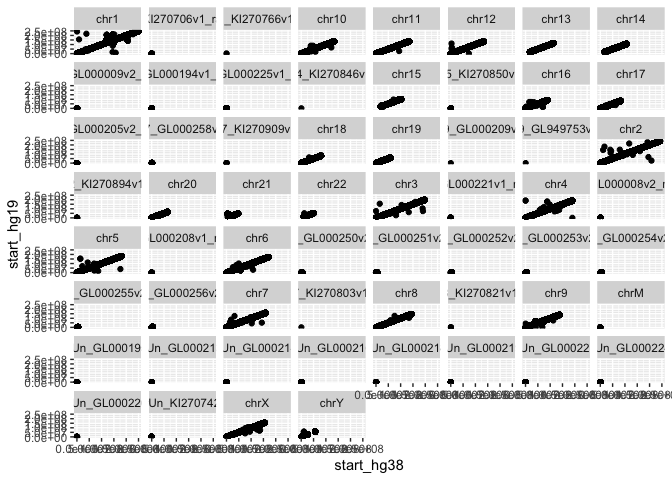
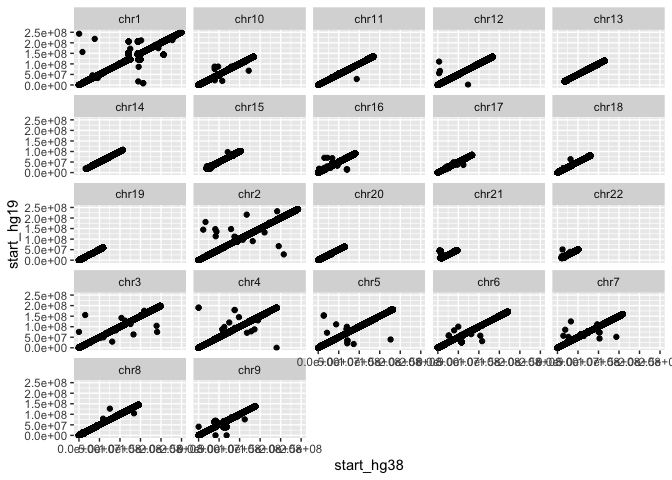
final commit

diff --git a/Assignment_4.md b/Assignment_4.md
@@ -323,9 +323,14 @@ counterpart.
 #?# Type the command you used below: - 3 pt
 
 #first need to get dataframe of reads where reads map to same chr between the two reference genomes
-data.df.matched <- data.df[data.df$chr_hg38 == data.df$chr_hg19,]
+canonical_chromosomes <- paste0("chr", 1:22)
 
-ggplot(data = data.df.matched, mapping = aes(x = start_hg38, y=start_hg19, group = chr_hg38)) + geom_point() + facet_wrap(~ chr_hg38)
+data.df.matched <- data.df[data.df$chr_hg38 == data.df$chr_hg19,]
+data.df.matched<- data.df.matched[data.df.matched$chr_hg38 %in% canonical_chromosomes, ]
+
+
+ggplot(data = data.df.matched, mapping = aes(x = start_hg38, y=start_hg19, group = chr_hg38)) + 
+  geom_point() + facet_wrap(~ chr_hg38)
 ```
 
 ![](Assignment_4_files/figure-gfm/unnamed-chunk-8-1.png)<!-- -->
@@ -393,7 +398,7 @@ compare.df.ori.redo<- reads.per.chr(data2.df, c(2,6), "hg38_org","hg38_redo")
 #?# How many reads were mapped to two different chromosomes? What percent of reads is this? Type the code and the answers for each below. 2 pt
 total_reads = nrow(data2.df) #get total number of reads
 chr_mismatch_reads = nrow(data2.df[data2.df$chr_ori != data2.df$chr_redo,])#get number of reads mapping to different chromosomes
-#there are 29413 mismatched reads between chr_hg38 and chr_hg19
+#there are 0 mismatched reads.
 mismatch_percentage = (chr_mismatch_reads/total_reads)*100
 #0% of all reads are mismatched between the original and the redo for hg_38
 
@@ -470,21 +475,55 @@ join -j4 -o 1.4,1.1,1.2,1.3,1.6,2.1,2.2,2.3,2.6 SRR12506919_subset_aligned_hg38_
 ``` r
 #?# Load your merged bed file onto R using the *read.csv* function and save it into a data.frame
 #?# Type the command you used below  - 1 pt
-
+data3.df <- read.csv("join_hg38_org_noDet.bed", sep = "")
 
 ## Change the column names of your merged bed data.frame to: 
 ## read_id  chr_ori  start_ori  end_ori  strand_ori chr_nonDet  start_nonDet  end_nonDet  strand_nonDet 
 #?# Type the command you used below:
+colnames(data3.df) <-c("read_id","chr_ori","start_ori","end_ori","strand_ori","chr_nonDet","start_nonDet", "end_nonDet","strand_nonDet")
+
 #?# How many reads were mapped to two different chromosomes? What percent of reads is this? Type the code and the answers for each below. 2 pt
+total_reads = nrow(data3.df) #get total number of reads
+chr_mismatch_reads = nrow(data3.df[data3.df$chr_ori != data3.df$chr_nonDet,])#get number of reads mapping to different chromosomes
+#there are 22695 mismatched reads.
+mismatch_percentage = (chr_mismatch_reads/total_reads)*100
+#approximately 3.716% of all reads are mismatched.
+
 ## Using the start position of the reads on both alignment runs do a scatterplot in ggplot that: 
 ## Has the start in the hg38 genome build in the x-axis
 ## Has the start in the hg19 genome build in the y-axis
 ## Plots each chromosome in its own subplot (panel) (e.g. see facet_wrap())
 ## Plots only cases where both reads mapped to the same chromosome
 #?# Type the command you used below: - 2 pt
+canonical_chromosomes <- paste0("chr", 1:22)
+
+data3.matched.df <- data3.df[data3.df$chr_ori == data3.df$chr_nonDet, ]
+data3.matched.df <- data3.matched.df[data3.matched.df$chr_ori %in% canonical_chromosomes, ]
+
+ggplot(data = data3.matched.df, mapping = aes(x = start_ori, y=start_nonDet, group = chr_ori)) + 
+  geom_point() + facet_wrap(~ chr_ori)
+```
+
+![](Assignment_4_files/figure-gfm/unnamed-chunk-13-1.png)<!-- -->
+
+``` r
 #?# Explain why this changes when you add the --non-deterministic --seed 3 flags. What is are these flags doing? Why did you get the result you saw in 2b?- 2 pt
 ## Tip: Look at the bowtie2 documentation!
+
+#According to the bowtie2 documentation, when bowtie2 searches along the sequences 
+# to look for alignments it uses psuedo random numbers if two equally good alignments 
+#are found. When the non-deterministic seed option is used, the system's current
+#time is used to set the seed for selecting the pusedo random number, making the 
+#search alignment random number different when you use it.
+
 #?# How do the number of off-diagonal reads and reads mapping to different chromosomes compare between where we mapped to two different genome versions (and then lifted over), versus the use of non-deterministic alignment? What fraction of reads that you found aligned to different chromsomes when using hg19 vs hg38 result from the differences between these two versions? - 3 pts
+
+#When comparing between the two figures, the org versus nonDet version and the hg38 vs hg19 version, the both have 
+#very similar levels of dispersion, with similar dispersion patterns seen between the same chromosome number. Both
+#had similar fractions of mismatched reads with the hg38v.hg19 one was 4.86% and the non deterministic one was 
+#3.716%.
+
+
 # ## Probably many if not most of the differeces between the hg19->hg38 and hg38 alignment result from the stochasticity associated with ambiguously mapped reads. as long as they get this, they win this question.
 ```
 
